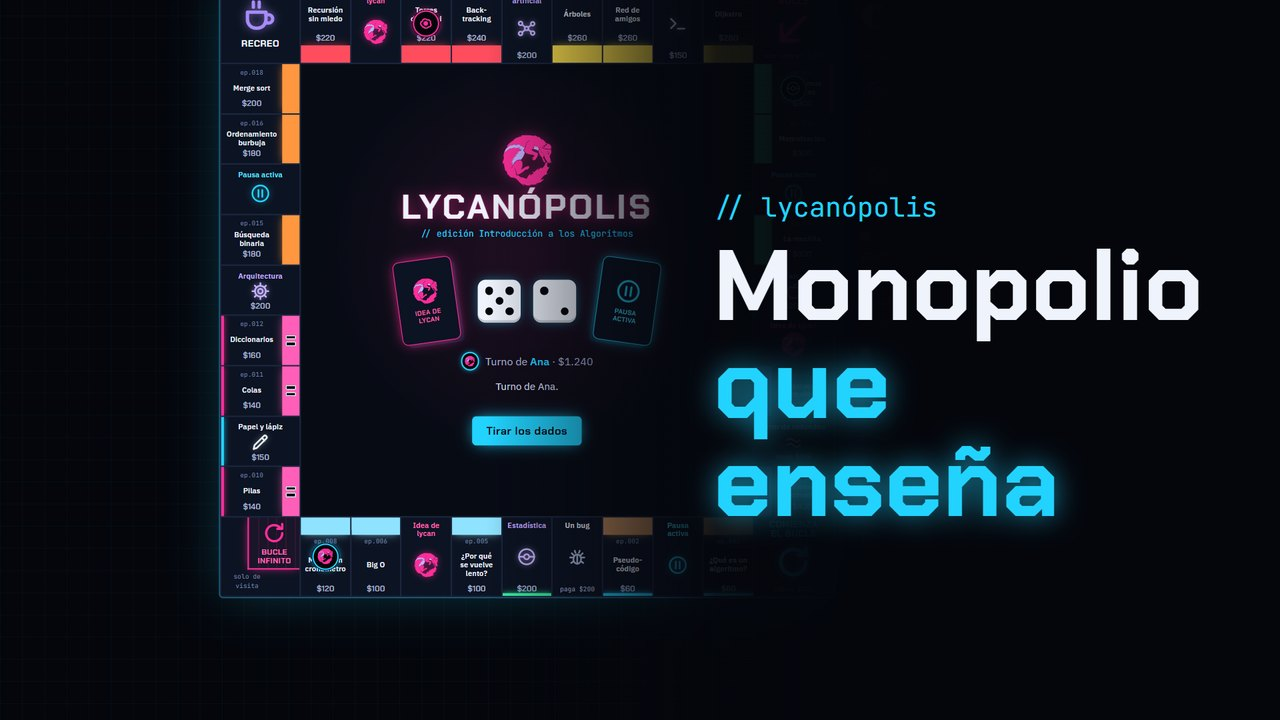
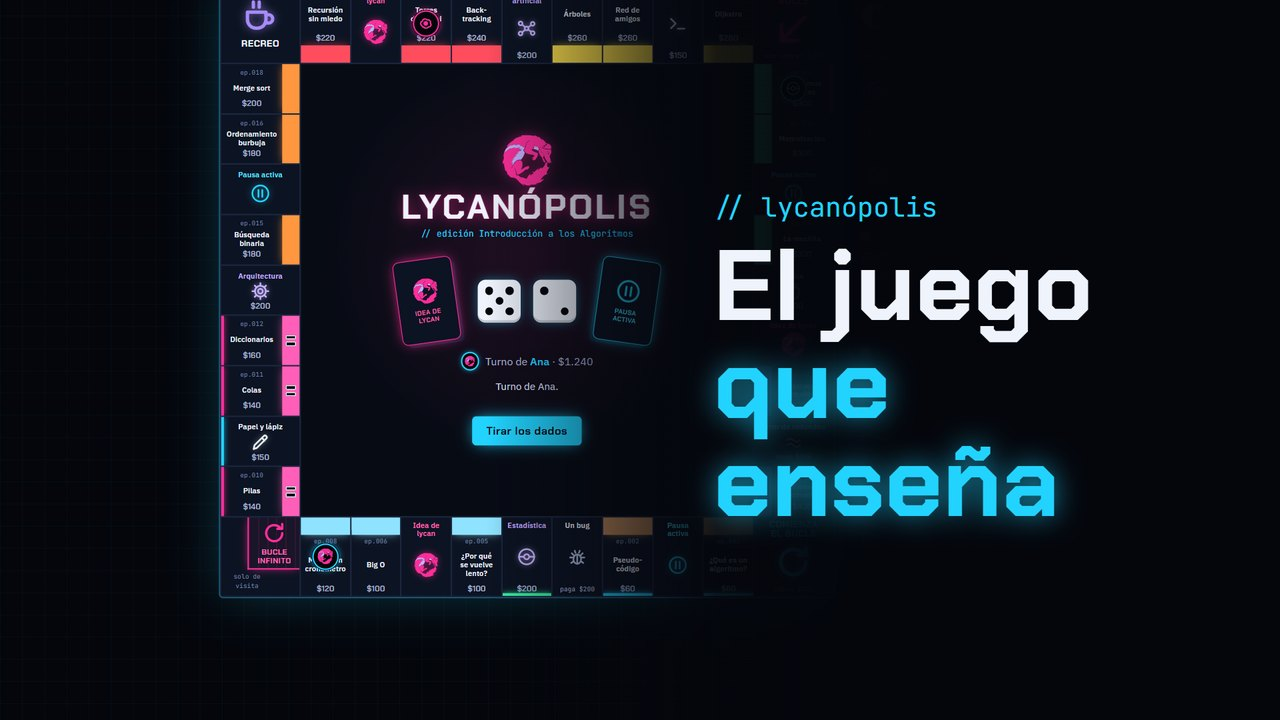
El juego que enseña: sin «monopolio», con portada nueva
Lycanópolis se presenta como el juego que enseña, un juego de mesa del
canal. La portada para compartir el enlace dice «El juego que enseña».

Changed region(s): [[0.5625, 0.3361, 0.9375, 0.4889]]

diff --git a/index.html b/index.html
@@ -5,9 +5,9 @@
 <meta name="viewport" content="width=device-width, initial-scale=1, viewport-fit=cover">
 <!--artefacto-->
 <title>Lycanópolis</title>
-<meta name="description" content="El monopolio de El bucle de lycan para aprender algoritmos jugando: 20 retos de programación que se juegan sin saber programar. Gratis en el navegador, en un mismo equipo o en línea.">
+<meta name="description" content="El juego de mesa de El bucle de lycan para aprender algoritmos jugando: 20 retos de programación que se juegan sin saber programar. Gratis en el navegador, en un mismo equipo o en línea.">
 <meta property="og:title" content="Lycanópolis · El bucle de lycan">
-<meta property="og:description" content="Un monopolio para aprender algoritmos jugando, con 20 retos de programación que se juegan sin saber programar.">
+<meta property="og:description" content="El juego que enseña algoritmos: un juego de mesa en el navegador, con 20 retos de programación que se juegan sin saber programar.">
 <meta property="og:type" content="website">
 <meta property="og:url" content="https://lycanopolis.canred.pro/">
 <meta property="og:image" content="https://lycanopolis.canred.pro/portada.jpg">
@@ -561,7 +561,7 @@ button:focus-visible,input:focus-visible{outline:2px solid var(--cyan-500);outli
 <script>
 'use strict';
 // =====================================================================
-// Lycanópolis: el monopolio de El bucle de lycan.
+// Lycanópolis: el juego de mesa de El bucle de lycan, el juego que enseña.
 // Se elige un curso antes de empezar: casillas de color = sus episodios (un color, un módulo);
 // estaciones = los otros cuatro cursos; servicios = Papel y lápiz y Python; cárcel = el bucle infinito.
 // Lo que se aprende va en las cartas: la idea equivocada de lycan y por qué falla, y las preguntas de la pausa activa.
@@ -3045,7 +3045,7 @@ function htmlTitulo(i){
 function htmlReglas(){
   return `<div class="ventana reglas" role="dialog" aria-modal="true" aria-labelledby="reglas-t">
     <h2 id="reglas-t">Cómo se juega</h2>
-    <p>Un monopolio para aprender: el tablero es ${TEMAS_ABIERTOS.length === 1 ? `el curso de ${CURSOS[TEMAS_ABIERTOS[0]].n}` : 'uno de los cursos del canal'} y las cartas son lo que se enseña en sus episodios. Cada jugador empieza con ${money(1500)} y gana quien deja a los demás sin dinero.</p>
+    <p>Un juego de mesa para aprender: el tablero es ${TEMAS_ABIERTOS.length === 1 ? `el curso de ${CURSOS[TEMAS_ABIERTOS[0]].n}` : 'uno de los cursos del canal'} y las cartas son lo que se enseña en sus episodios. Cada jugador empieza con ${money(1500)} y gana quien deja a los demás sin dinero.</p>
     <h3>// lo que se aprende</h3>
     <ul>
       <li><b>Pausa activa:</b> una pregunta de un episodio con tres respuestas. Si aciertas, cobras ${money(100)}; aciertes o no, la carta explica por qué.</li>

diff --git a/README.md b/README.md
@@ -1,6 +1,6 @@
 # Lycanópolis
 
-El monopolio del canal para aprender algoritmos jugando: las casillas son los episodios del curso de Introducción a los Algoritmos, y cada uno tiene un reto de programación que se juega sin saber programar.
+El juego que enseña: un juego de mesa del canal para aprender algoritmos jugando. Las casillas son los episodios del curso de Introducción a los Algoritmos, y cada uno tiene un reto de programación que se juega sin saber programar.
 
 **Juega aquí: https://lycanopolis.canred.pro/**
 
